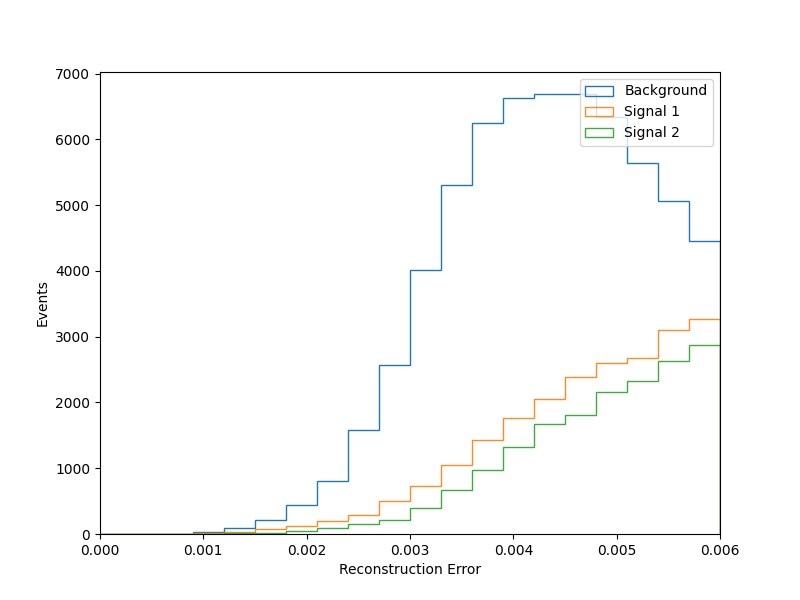
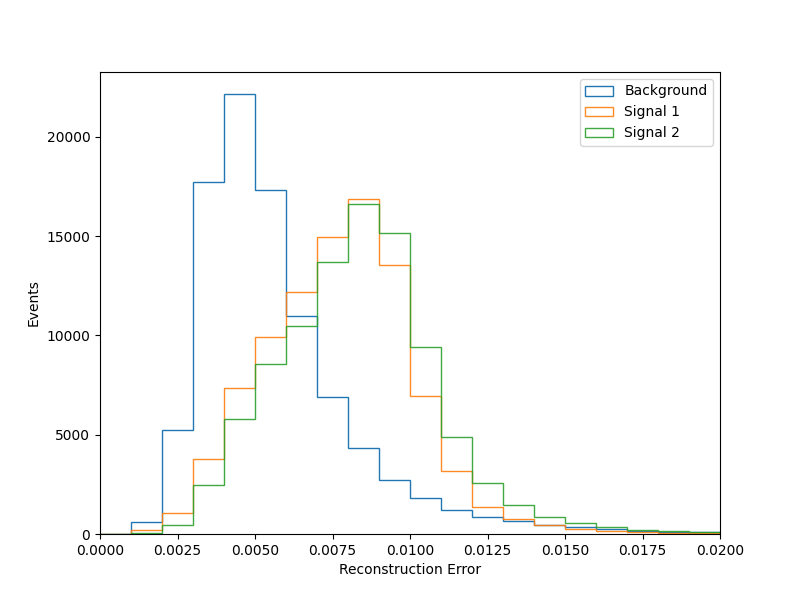
Testing with minmax scaling and 84, 14 layer dimensions

diff --git a/hist.py b/hist.py
@@ -104,12 +104,12 @@ if not os.path.exists(directory):
 nbins = 20
 for i, column in enumerate(selection):
     fig, axes = plt.subplots(figsize=(8,6))
-    axes.hist([test_bkg.cpu().numpy()[:,i]], nbins, density=0, histtype='bar', label=['Background'], stacked=True, alpha=1)
-    axes.hist([predict_bkg.cpu().numpy()[:,i]], nbins, density=0, histtype='bar', label=['BKG prediction'], stacked=True, alpha=0.3)
-    axes.hist([test_sig1.cpu().numpy()[:,i]], nbins, density=0, histtype='bar', label=['Signal 1'], stacked=True, alpha=1)
-    axes.hist([predict_sig1.cpu().numpy()[:,i]], nbins, density=0, histtype='bar', label=['Signal 1 prediction'], stacked=True, alpha=0.3)
-    axes.hist([test_sig2.cpu().numpy()[:,i]], nbins, density=0, histtype='bar', label=['Signal 2'], stacked=True, alpha=1)
-    axes.hist([predict_sig2.cpu().numpy()[:,i]], nbins, density=0, histtype='bar', label=['Signal 2 prediction'], stacked=True, alpha=0.3)
+    axes.hist([test_bkg.cpu().numpy()[:,i]], nbins, density=0, histtype='step', label=['Background'], stacked=True, alpha=1)
+    axes.hist([predict_bkg.cpu().numpy()[:,i]], nbins, density=0, histtype='step', label=['BKG prediction'], stacked=True, alpha=0.3)
+    axes.hist([test_sig1.cpu().numpy()[:,i]], nbins, density=0, histtype='step', label=['Signal 1'], stacked=True, alpha=1)
+    axes.hist([predict_sig1.cpu().numpy()[:,i]], nbins, density=0, histtype='step', label=['Signal 1 prediction'], stacked=True, alpha=0.3)
+    axes.hist([test_sig2.cpu().numpy()[:,i]], nbins, density=0, histtype='step', label=['Signal 2'], stacked=True, alpha=1)
+    axes.hist([predict_sig2.cpu().numpy()[:,i]], nbins, density=0, histtype='step', label=['Signal 2 prediction'], stacked=True, alpha=0.3)
     axes.set_xlabel(f"{column}")
     axes.set_ylabel("Events")
     axes.set_title(f"Prediction of {column}")

diff --git a/test.py b/test.py
@@ -127,12 +127,12 @@ loss_sig2_total = loss_sig2.sum(axis=1) / 42
 # Plot Total Reconstruction Error
 nbins = 20
 fig, axes = plt.subplots(figsize=(8,6))
-axes.hist([loss_bkg_total], nbins, range=(0, 0.006), density=0, histtype='step', label=['Background'], stacked=True, alpha=1)
-axes.hist([loss_sig1_total], nbins, range=(0, 0.006), density=0, histtype='step', label=['Signal 1'], stacked=True, alpha=0.9)
-axes.hist([loss_sig2_total], nbins, range=(0, 0.006), density=0, histtype='step', label=['Signal 2'], stacked=True, alpha=0.9)
+axes.hist([loss_bkg_total], nbins, range=(0, 0.02), density=0, histtype='step', label=['Background'], stacked=True, alpha=1)
+axes.hist([loss_sig1_total], nbins, range=(0, 0.02), density=0, histtype='step', label=['Signal 1'], stacked=True, alpha=0.9)
+axes.hist([loss_sig2_total], nbins, range=(0, 0.02), density=0, histtype='step', label=['Signal 2'], stacked=True, alpha=0.9)
 axes.set_xlabel(r"Reconstruction Error")
 axes.set_ylabel("Events")
-axes.set_xlim(0, 0.006)
+axes.set_xlim(0, 0.02)
 axes.legend(loc='upper right')
 fig.savefig(f"figs/testing/reconstruction_error_{scale}_{mid_dim}_{latent_dim}.png")
 
